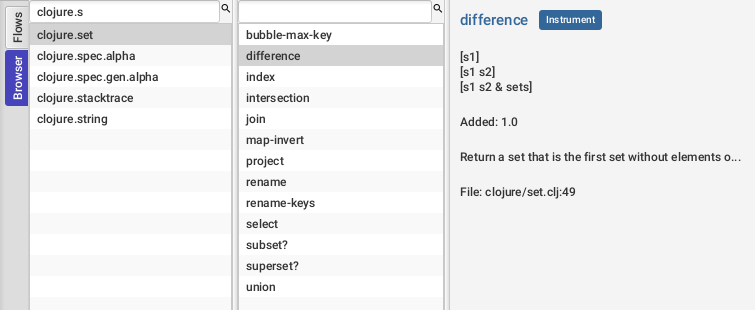
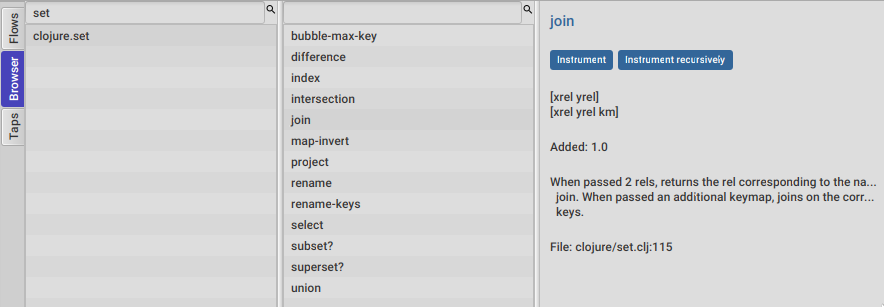
Add single var recursive instrumentation to the browser

diff --git a/docs/user_guide.html b/docs/user_guide.html
@@ -1280,6 +1280,19 @@ and weren&#8217;t loaded from a file.</p>
 <img src="user_guide_images/browser_var_instrumentation.png" alt="browser var instrumentation">
 </div>
 </div>
+<div class="paragraph">
+<p>There are two ways of instrumenting a var :</p>
+</div>
+<div class="ulist">
+<ul>
+<li>
+<p>Instrument (instrument just the var source code)</p>
+</li>
+<li>
+<p>Instrument recursively (recursively instrument the var and all vars refered by it)</p>
+</li>
+</ul>
+</div>
 </div>
 <div class="sect4">
 <h5 id="_instrument_namespaces_2"><a class="anchor" href="#_instrument_namespaces_2"></a><a class="link" href="#_instrument_namespaces_2">Instrument namespaces</a></h5>
@@ -2142,7 +2155,7 @@ by providing <code>:verbose? true</code> to the options map.</p>
 </div>
 <div id="footer">
 <div id="footer-text">
-Last updated 2022-11-22 09:36:46 -0300
+Last updated 2022-11-23 15:36:08 -0300
 </div>
 </div>
 </body>

diff --git a/resources/styles.css b/resources/styles.css
@@ -169,6 +169,10 @@
 	visibility: visible;
 }
 
+.browser-var-buttons {
+	-fx-padding: 10;
+}
+
 .browser-instr-del-btn {
     -fx-font-size: 10;
 }

diff --git a/CHANGELOG.md b/CHANGELOG.md
@@ -4,6 +4,8 @@
 	
 ## New Features
     
+	- Add browser var recursive instrumentation
+	
 ### Changes
 
 ### Bugs fixed
